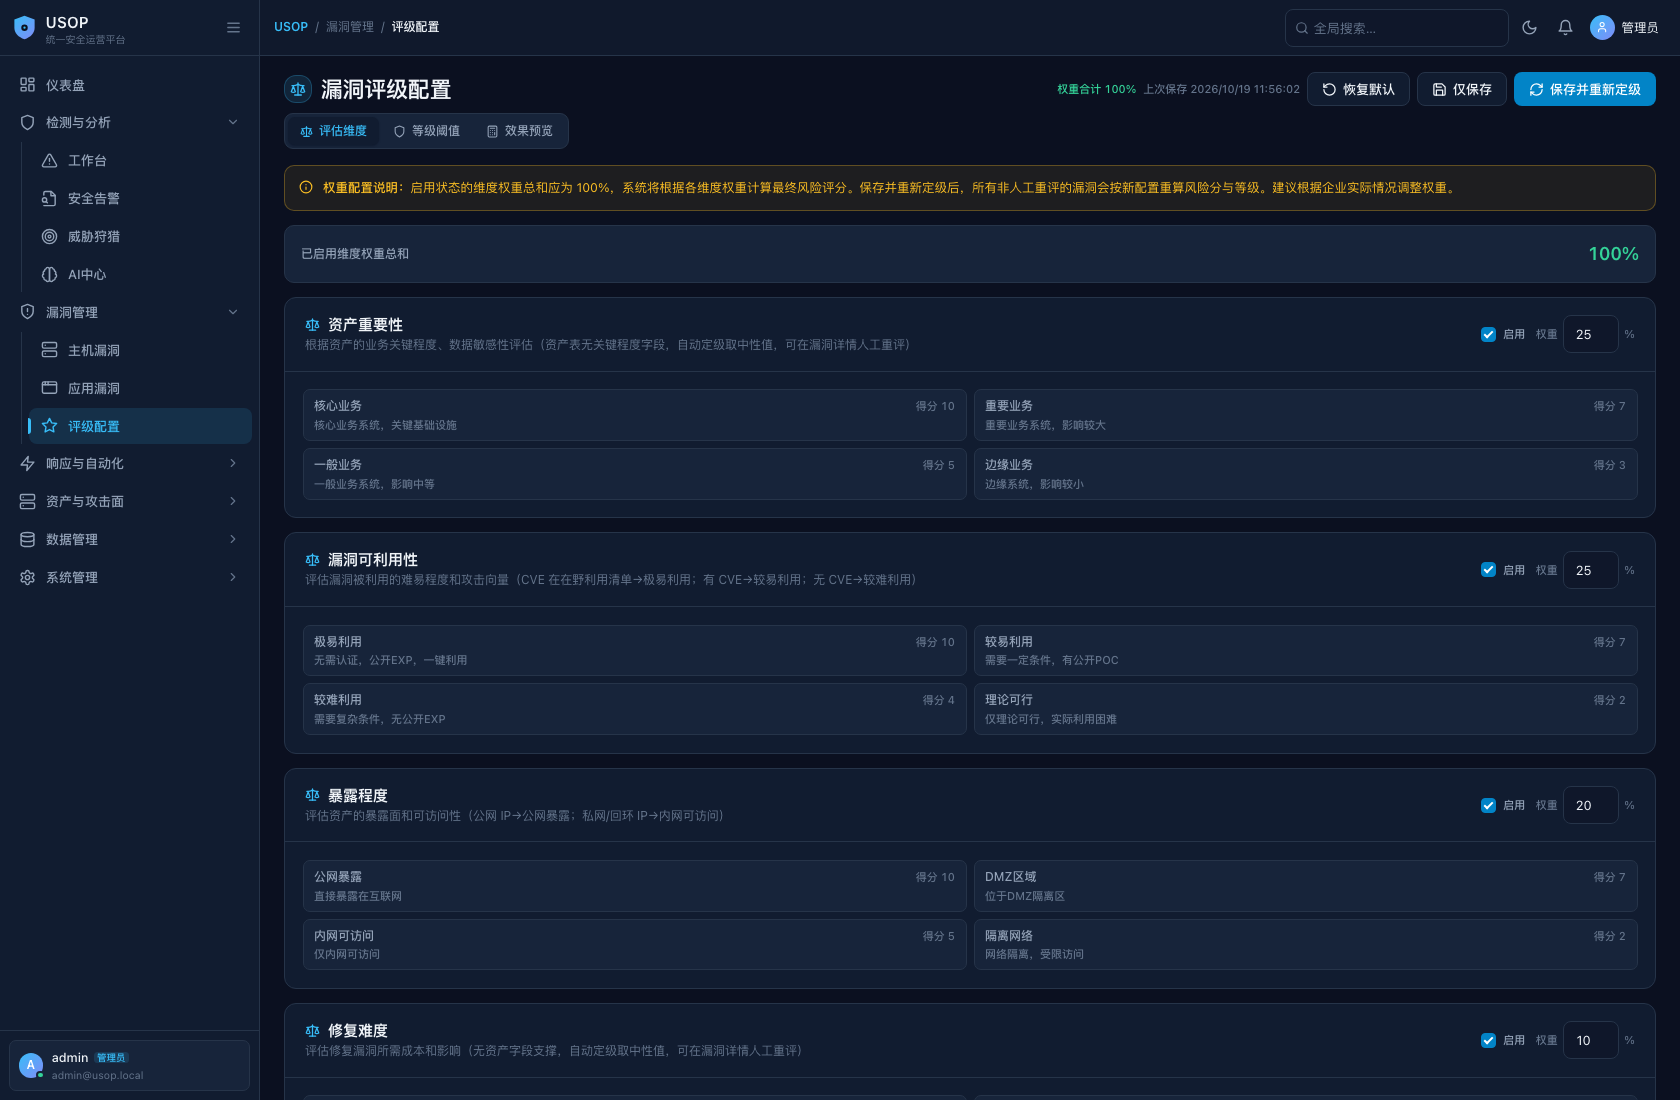
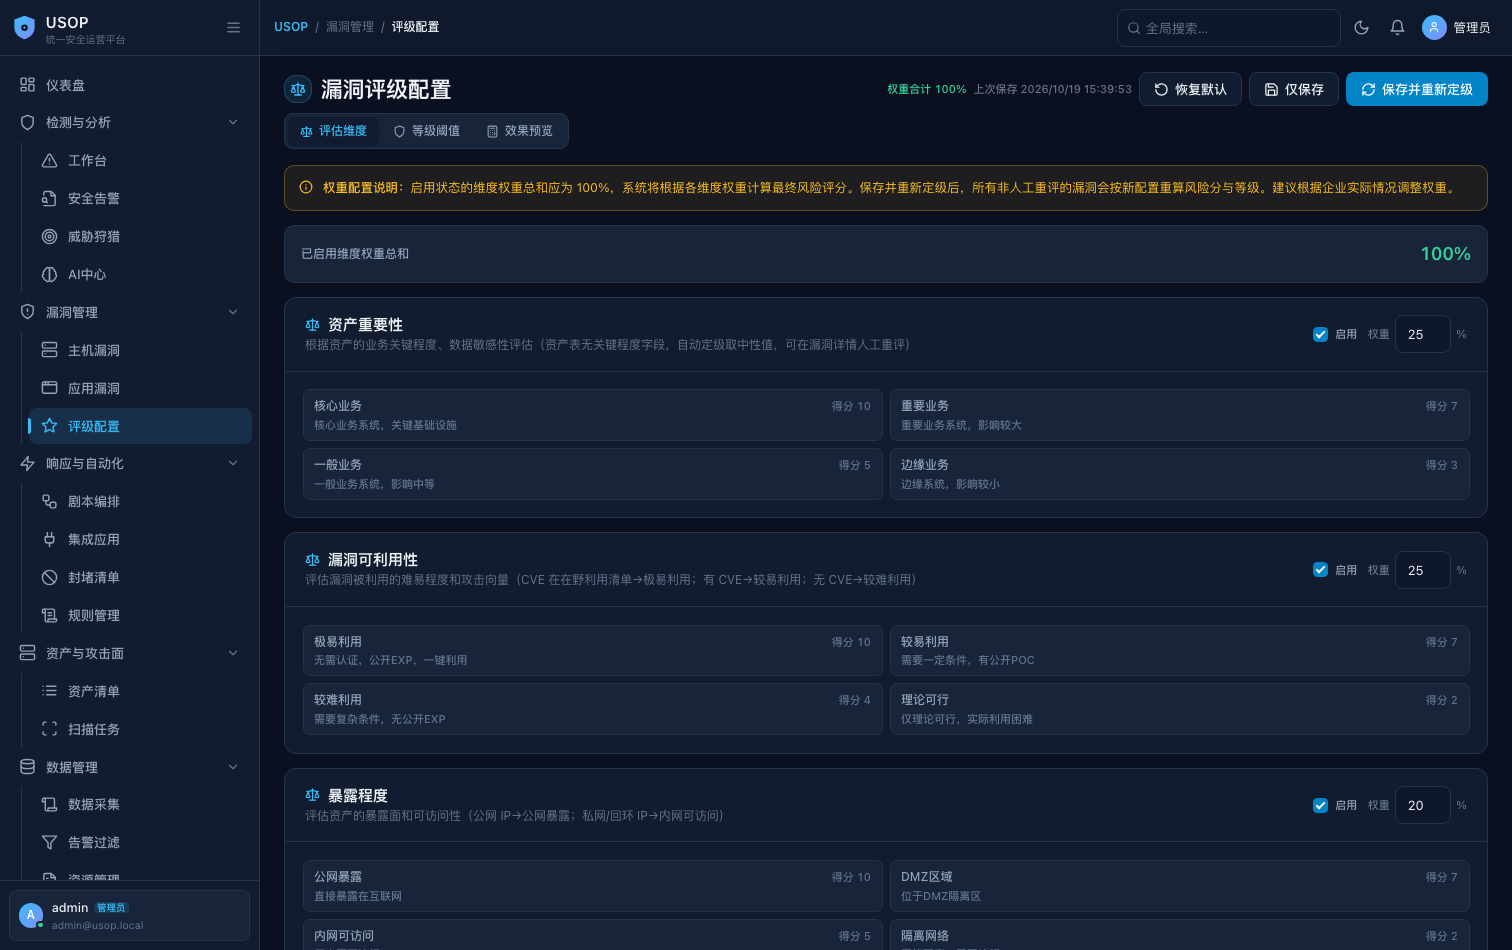
docs(readme): 补充平台架构图与 13 张模块截图
- 新增「平台架构」章节：Mermaid 分层架构图（采集端→Kafka→解析管道→
  ES→Flink→PG，应用层 nginx+Flask/React），数据主链路一句话 + 四条
  架构要点（ES 唯一真相源 / 检测响应双引擎 / 响应闭环 / 单容器交付）
- 新增「平台截图」章节：两列画廊展示 13 个模块截图（仪表盘/告警/事件/
  狩猎/AI 中心/规则/剧本/封堵/资产/采集/漏洞/评级配置/RBAC），每图
  一句话说明
- 主图由 alerts-list-demo 换为更具代表性的 dashboard-overview
- 修正漏洞章节重评描述：双轨制 → 配置驱动统一模型（与 d494e7f 合并一致）
- 新增 scripts/capture_readme_screenshots.py：无头登录逐页截图脚本，
  可 --only 指定模块刷新配图
- Mermaid 图已经 Playwright + mermaid@11 真实渲染验证通过

diff --git a/scripts/capture_readme_screenshots.py b/scripts/capture_readme_screenshots.py
@@ -1,0 +1,99 @@
+"""README 配图抓取脚本：无头登录 → 逐页面截图到 docs/images/。
+
+用途：为 README「平台截图」章节生成/刷新模块截图。
+复用既有命名，缺失模块按 <module>-<page>.png 新建；已存在文件会被覆盖刷新。
+
+用法：
+    python3.14 scripts/capture_readme_screenshots.py [--only assets,ingestion]
+"""
+import argparse
+import json
+import os
+import urllib.request
+
+from playwright.sync_api import sync_playwright
+
+ROOT = os.path.dirname(os.path.dirname(os.path.abspath(__file__)))
+IMG_DIR = os.path.join(ROOT, 'docs', 'images')
+BASE = 'http://localhost:3266'
+API = 'http://127.0.0.1:5001'
+
+# (key, hash 路由, 输出文件名, 等待的落地文本, 额外等待秒)
+TARGETS = [
+    ('dashboard', '/', 'dashboard-overview.png', '攻击源', 2.5),
+    ('alerts', '/detection/investigation', 'alerts-investigation.png', '告警', 2.5),
+    ('events', '/detection/events', 'events-workbench.png', '事件', 2.0),
+    ('rules', '/response/rules', 'detection-rules.png', '规则', 2.0),
+    ('playbooks', '/response/playbooks', 'playbook-canvas.png', '剧本', 2.5),
+    ('executions', '/response/blocked-ips', 'blocked-ips.png', '封堵', 2.0),
+    ('assets', '/assets/inventory', 'assets-inventory.png', '资产', 2.5),
+    ('ingestion', '/data/ingestion', 'data-ingestion.png', '数据', 2.5),
+    ('vuln', '/vulnerabilities/host', 'vuln-host-list.png', '漏洞', 2.5),
+    ('assessment', '/vulnerabilities/assessment', 'vuln-rating-config.png', '评级', 2.0),
+    ('ai', '/detection/ai', 'ai-center.png', 'AI', 2.5),
+    ('hunting', '/detection/hunting', 'threat-hunting.png', '狩猎', 2.0),
+    ('roles', '/system/roles', 'rbac-roles.png', '角色', 2.0),
+]
+
+
+def login_payload():
+    body = json.dumps({'username': 'admin', 'password': 'admin123'}).encode()
+    req = urllib.request.Request(f'{API}/api/auth/login', data=body,
+                                 headers={'Content-Type': 'application/json'}, method='POST')
+    return json.load(urllib.request.urlopen(req))['data']
+
+
+def main():
+    ap = argparse.ArgumentParser()
+    ap.add_argument('--only', default='', help='逗号分隔的 key 子集')
+    args = ap.parse_args()
+
+    wanted = set(args.only.split(',')) if args.only else None
+    targets = [t for t in TARGETS if not wanted or t[0] in wanted]
+
+    login = login_payload()
+    token, user = login['token'], {**login['user'], 'permissions': login.get('permissions', [])}
+    os.makedirs(IMG_DIR, exist_ok=True)
+
+    ok, fail = [], []
+    with sync_playwright() as p:
+        browser = p.chromium.launch()
+        # 1x 采样即可：README 展示宽度约 800px，2x 会让单张涨到 500KB+，仓库吃不消
+        page = browser.new_page(viewport={'width': 1512, 'height': 950},
+                                device_scale_factor=1)
+
+        # 注入登录态：先落地 / 再 reload，避开 AuthContext verifyToken 与路由重定向竞速
+        page.goto(BASE + '/', wait_until='domcontentloaded')
+        page.evaluate(
+            """([t, u]) => { localStorage.setItem('token', t); localStorage.setItem('user', JSON.stringify(u)); }""",
+            [token, user])
+        page.reload(wait_until='domcontentloaded')
+        page.wait_for_selector('aside, nav', timeout=15000)
+        page.wait_for_timeout(1200)
+
+        for key, route, filename, needle, wait in targets:
+            out = os.path.join(IMG_DIR, filename)
+            try:
+                page.goto(f'{BASE}/#{route}', wait_until='domcontentloaded')
+                page.wait_for_timeout(int(wait * 1000))
+                page.wait_for_selector('main', timeout=15000)
+                page.screenshot(path=out, full_page=False)
+                size_kb = os.path.getsize(out) // 1024
+                ok.append(f'{key:12s} → {filename}  ({size_kb} KB)')
+            except Exception as e:  # noqa: BLE001
+                fail.append(f'{key:12s} → {filename}  失败: {type(e).__name__}: {e}')
+
+        browser.close()
+
+    print('=== 成功 ===')
+    for line in ok:
+        print(' ', line)
+    if fail:
+        print('=== 失败 ===')
+        for line in fail:
+            print(' ', line)
+    print(f'\n{len(ok)}/{len(targets)} 张已写入 {IMG_DIR}')
+
+
+if __name__ == '__main__':
+    main()
